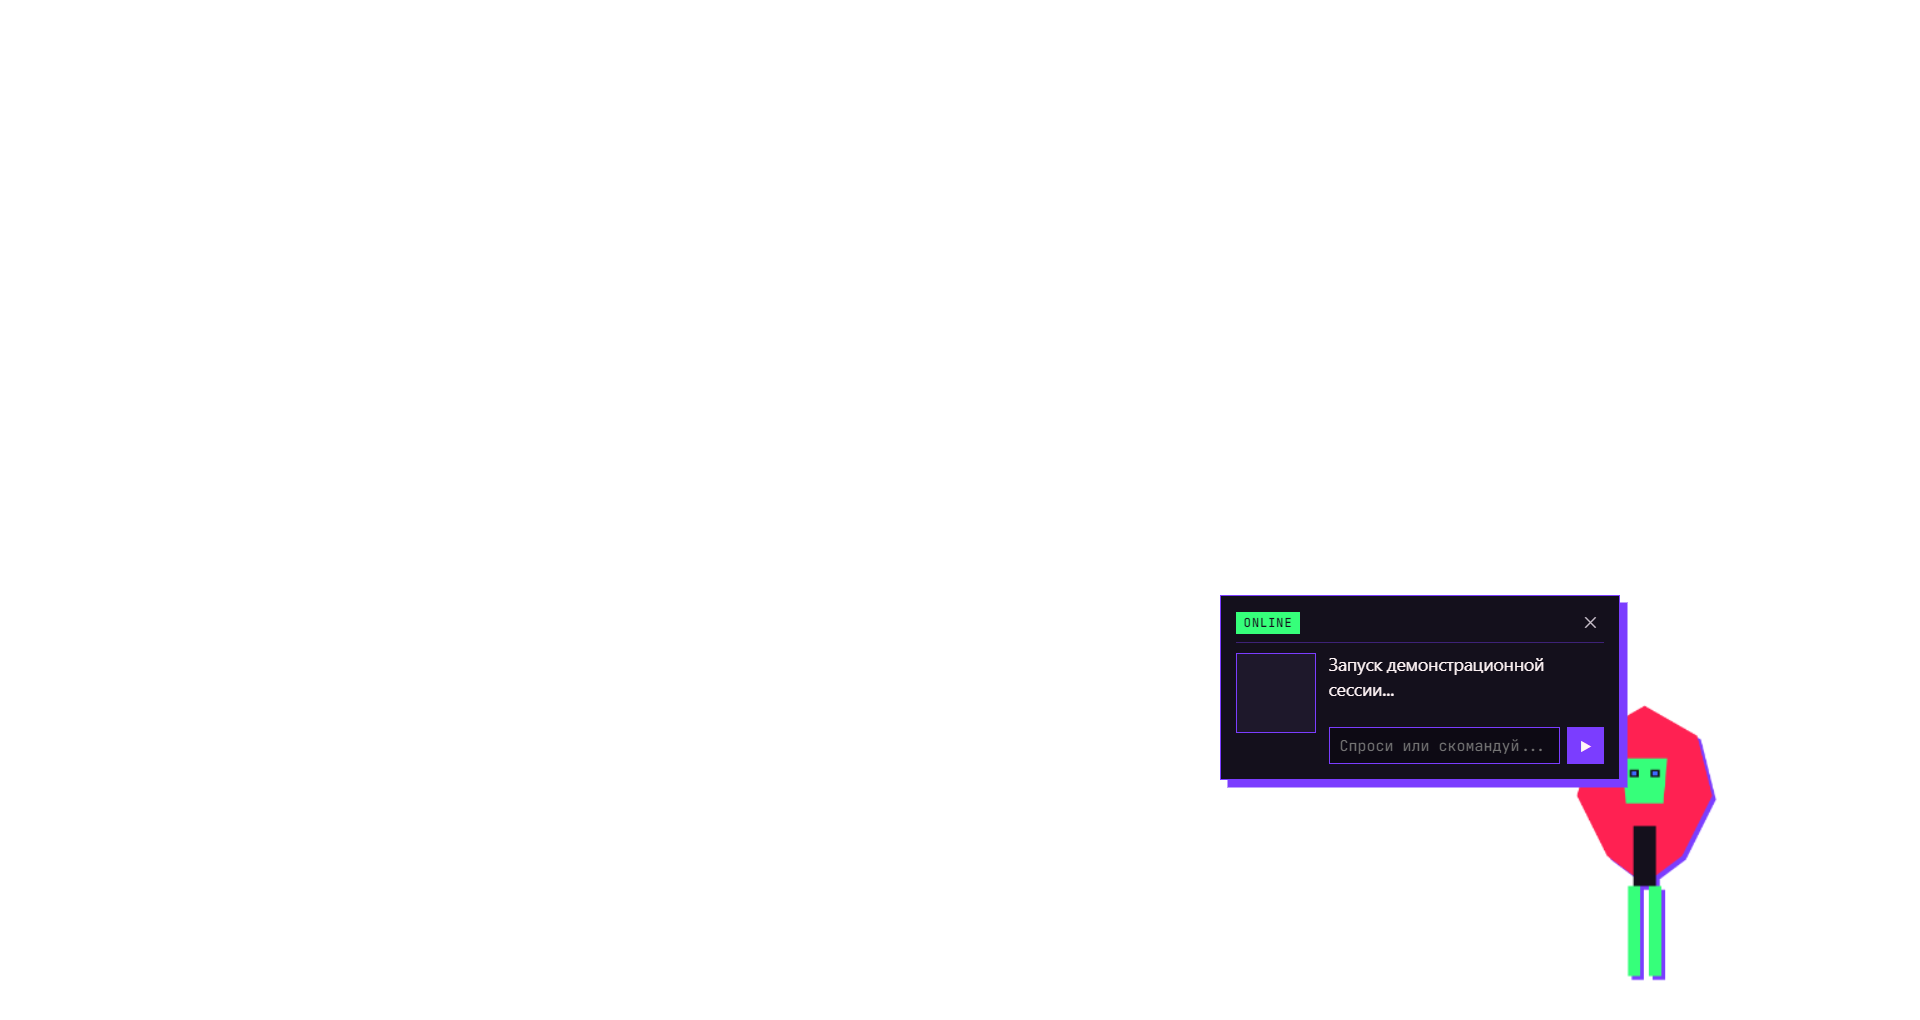
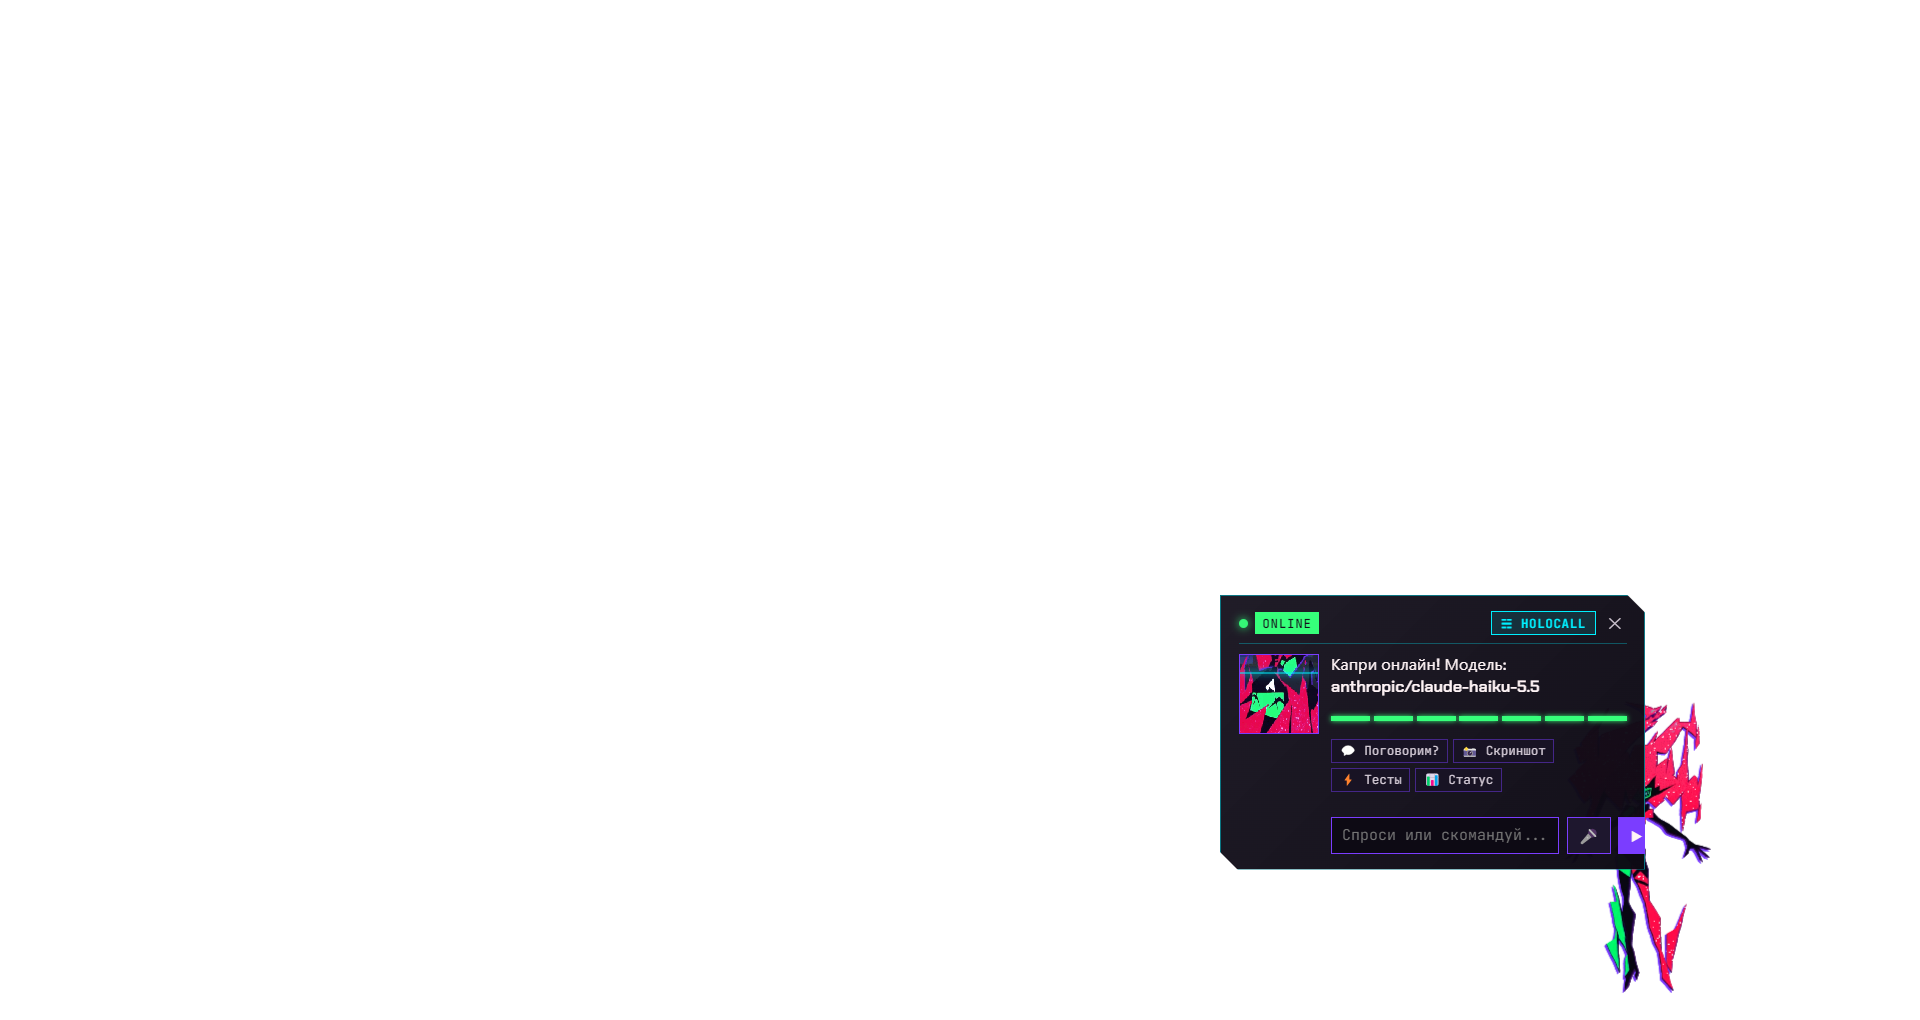
fix(character): restore responsive cursor dragging and dual-map hit testing for HD sprites

Changed region(s): [[0.625, 0.5775, 0.9062, 0.9725]]

diff --git a/app/src/renderer/character/CapriController.ts b/app/src/renderer/character/CapriController.ts
@@ -24,7 +24,6 @@ export interface WindowData {
 
 const GRAVITY = 2600; // px/s^2
 const MAX_FALL_SPEED = 1900; // px/s
-const THIGH = 73; // hip to knee sprite px
 
 export class CapriController {
   public root: HTMLElement;
@@ -57,6 +56,7 @@ export class CapriController {
   private basePlayer: Player;
   private activeAct: Player | null = null;
   private alphaMap: Uint8ClampedArray | null = null;
+  private sitAlphaMap: Uint8ClampedArray | null = null;
 
   private lastDrawTime = 0;
   private lastActivityTime = performance.now();
@@ -127,11 +127,11 @@ export class CapriController {
     this.voice = voice;
     this.renderer = new SpriteRenderer(canvas, image, sitImage);
     this.basePlayer = new Player('stand');
-    this.buildAlphaMap(image);
+    this.buildAlphaMap(image, sitImage);
     this.setScale(this.scale);
   }
 
-  private buildAlphaMap(source: TexImageSource): void {
+  private buildAlphaMap(source: TexImageSource, sitSource?: TexImageSource): void {
     const { width: w, height: h, mirror } = SPRITE;
     const c = document.createElement('canvas');
     c.width = w;
@@ -139,7 +139,8 @@ export class CapriController {
     const ctx = c.getContext('2d', { willReadFrequently: true });
     if (!ctx) return;
 
-    ctx.drawImage(source as CanvasImageSource, 0, 0);
+    // Draw STANDING sprite scaled to (0, 0, w, h)
+    ctx.drawImage(source as CanvasImageSource, 0, 0, w, h);
     const idata = ctx.getImageData(0, 0, w, h);
     const data = idata.data;
 
@@ -152,6 +153,14 @@ export class CapriController {
       }
     }
     this.alphaMap = data;
+
+    // Build SITTING alpha map if sitSource is provided
+    if (sitSource) {
+      ctx.clearRect(0, 0, w, h);
+      ctx.drawImage(sitSource as CanvasImageSource, 2.5, 0, 231, 232);
+      const sitIdata = ctx.getImageData(0, 0, w, h);
+      this.sitAlphaMap = sitIdata.data;
+    }
   }
 
   public get floor(): number {
@@ -686,6 +695,10 @@ export class CapriController {
     const top = this.pos.y - (SPRITE.pad + SPRITE.feet.y) * s + this.bob;
     this.root.style.transform = `translate3d(${Math.round(left)}px, ${Math.round(top)}px, 0)`;
 
+    const originX = (SPRITE.pad + SPRITE.feet.x) * s;
+    const originY = (SPRITE.pad + SPRITE.feet.y) * s;
+    this.canvas.style.transformOrigin = `${originX.toFixed(1)}px ${originY.toFixed(1)}px`;
+
     const flipY = this.upside ? -1 : 1;
     this.canvas.style.transform = `rotate(${this.tilt.toFixed(2)}deg) scale(${(this.facing * this.sx).toFixed(3)}, ${(flipY * this.sy).toFixed(3)})`;
     this.onMove?.(this.pos);
@@ -701,7 +714,7 @@ export class CapriController {
     }
 
     // Falling physics update
-    if (this.stance === 'fall') {
+    if (this.stance === 'fall' && !this.isDragging) {
       this.updateFall(now);
       this.place();
       this.renderer.draw(this.state);
@@ -821,18 +834,14 @@ export class CapriController {
   }
 
   public hitTest(screenX: number, screenY: number): boolean {
-    if (this.isStowed || !this.alphaMap) return false;
+    if (this.isStowed) return false;
 
     const s = this.scale;
     const fy = this.pos.y + this.bob;
     const sx = SPRITE.feet.x + ((screenX - this.pos.x) / s) * this.facing;
-    let sy = SPRITE.feet.y - (fy - screenY) / s;
-
-    // Compensate sitting thigh fold
-    if (this.state.sit > 0 && sy > SPRITE.hip) {
-      const c = 0.3;
-      sy = sy <= SPRITE.hip + THIGH * c ? SPRITE.hip + (sy - SPRITE.hip) / c : sy + THIGH * (1 - c);
-    }
+    const sy = this.upside
+      ? SPRITE.feet.y + (fy - screenY) / s
+      : SPRITE.feet.y - (fy - screenY) / s;
 
     const px = Math.round(sx);
     const py = Math.round(sy);
@@ -841,7 +850,38 @@ export class CapriController {
       return false;
     }
 
-    const alpha = this.alphaMap[(py * SPRITE.width + px) * 4 + 3];
-    return alpha > 40;
+    const isSit = this.stance === 'sit';
+    const maxY = isSit ? 236 : 418;
+    if (py > maxY) return false;
+
+    // Fast path: core body bounding box guarantees clickability
+    if (px >= 75 && px <= 165 && py >= 40 && py <= maxY) {
+      return true;
+    }
+
+    const map = isSit && this.sitAlphaMap ? this.sitAlphaMap : this.alphaMap;
+    if (!map) {
+      return px >= 40 && px <= 200 && py >= 10 && py <= maxY;
+    }
+
+    // Direct pixel hit
+    if (map[(py * SPRITE.width + px) * 4 + 3] > 20) {
+      return true;
+    }
+
+    // Neighbor search for thin hair strands, antennae, fingers, outer edges (±6px)
+    for (let dy = -6; dy <= 6; dy += 2) {
+      for (let dx = -6; dx <= 6; dx += 2) {
+        const nx = px + dx;
+        const ny = py + dy;
+        if (nx >= 0 && nx < SPRITE.width && ny >= 0 && ny < SPRITE.height) {
+          if (map[(ny * SPRITE.width + nx) * 4 + 3] > 25) {
+            return true;
+          }
+        }
+      }
+    }
+
+    return false;
   }
 }

diff --git a/app/src/renderer/main.ts b/app/src/renderer/main.ts
@@ -455,7 +455,7 @@ async function bootstrap() {
 
     if (mouseDownPos && !capri.isDragging) {
       const dist = Math.hypot(e.clientX - mouseDownPos.x, e.clientY - mouseDownPos.y);
-      if (dist > 6) {
+      if (dist > 3) {
         capri.isDragging = true;
         dragOffset = {
           x: capri.pos.x - mouseDownPos.x,
@@ -463,6 +463,9 @@ async function bootstrap() {
         };
         closeContextMenu();
         setInteractive(true);
+        if (capri.stance === 'sit' || capri.stance === 'sleep') {
+          capri.setStance('fall');
+        }
       }
     }
 
@@ -506,6 +509,11 @@ async function bootstrap() {
 
       if (capri.hitTest(e.clientX, e.clientY)) {
         mouseDownPos = { x: e.clientX, y: e.clientY };
+        dragOffset = {
+          x: capri.pos.x - e.clientX,
+          y: capri.pos.y - e.clientY,
+        };
+        setInteractive(true);
       }
 
       if (chip.contains(e.clientX, e.clientY)) {

diff --git a/scripts/clean_sitting.py b/scripts/clean_sitting.py
@@ -1,4 +1,4 @@
-import os
+import os
 from PIL import Image
 import numpy as np
 
@@ -27,9 +27,10 @@ is_black_armor = (r < 50) & (g < 50) & (b < 60) & (a > 80)
 # The shadow has low saturation: |r-g| < 30 and |g-b| < 30 and (r < 120)
 is_dull_shadow = (np.abs(r.astype(int) - g.astype(int)) < 30) & (np.abs(g.astype(int) - b.astype(int)) < 30) & (r < 120)
 
-# Zero out dull shadow
+# Zero out dull shadow only in bed region (x < 650, y > 500)
 clean_mask = a > 0
-clean_mask[is_dull_shadow] = False
+bed_region = (np.arange(arr.shape[1])[None, :] < 650) & (np.arange(arr.shape[0])[:, None] > 500)
+clean_mask[is_dull_shadow & bed_region] = False
 
 arr[:,:,3] = np.where(clean_mask, a, 0)
 
